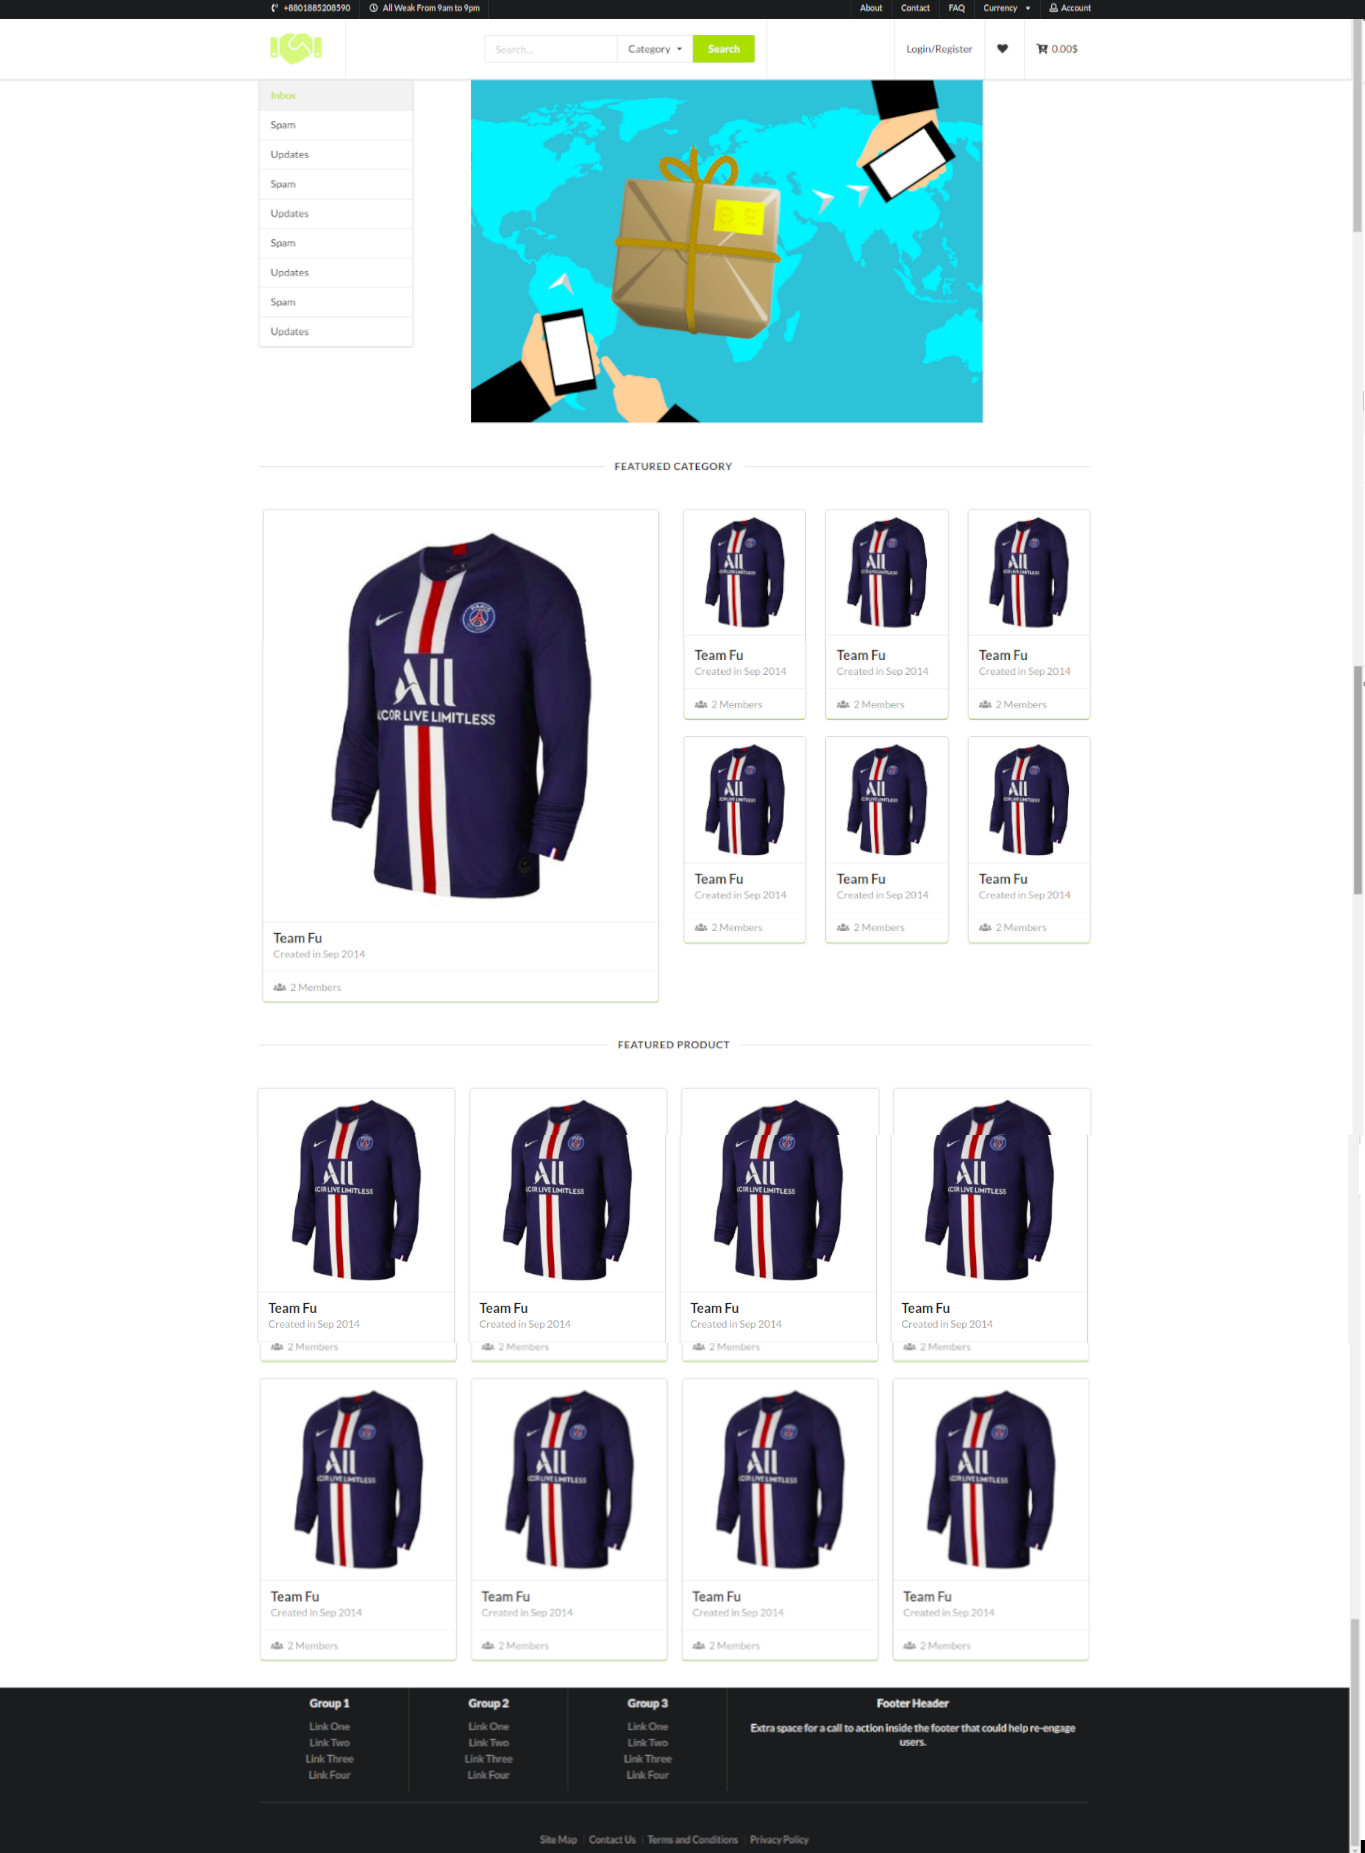
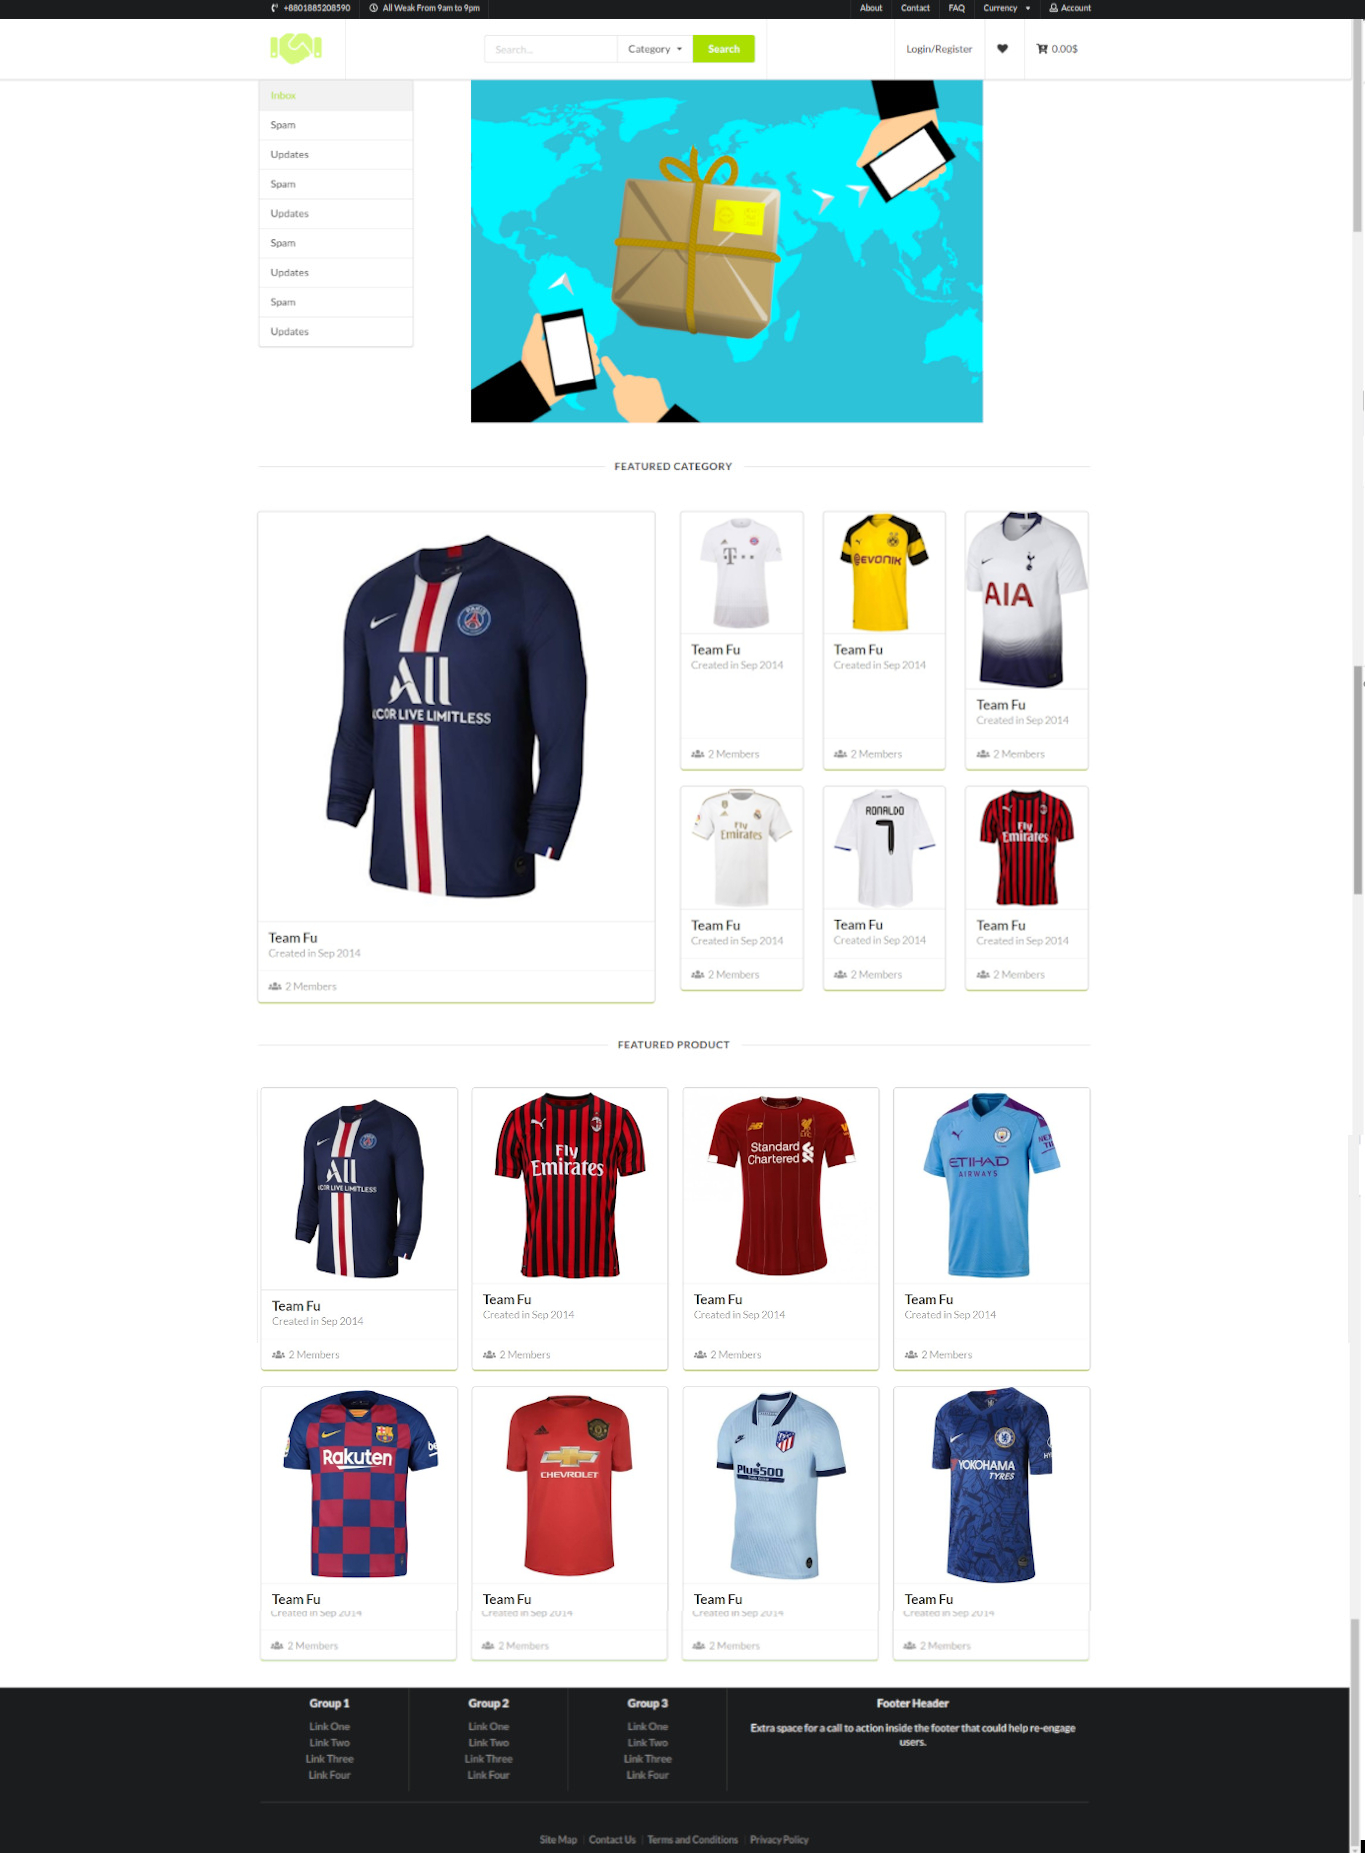
thumbnail change

diff --git a/index.html b/index.html
@@ -173,7 +173,7 @@
                                                     </div>
                                                 </div>
                                             </div>
-                                            <img class="ui fluid image" src="img/pasg.jpg">
+                                            <img class="ui fluid image" src="img/images (7).jpg">
                                         </div>
                                         <div class="content">
                                             <a class="header">Team Fu</a>
@@ -197,7 +197,7 @@
                                                     </div>
                                                 </div>
                                             </div>
-                                            <img class="ui fluid image" src="img/pasg.jpg">
+                                            <img class="ui fluid image" src="img/images (8).jpg">
                                         </div>
                                         <div class="content">
                                             <a class="header">Team Fu</a>
@@ -221,7 +221,7 @@
                                                     </div>
                                                 </div>
                                             </div>
-                                            <img class="ui fluid image" src="img/pasg.jpg">
+                                            <img class="ui fluid image" src="img/images (9).jpg">
                                         </div>
                                         <div class="content">
                                             <a class="header">Team Fu</a>
@@ -247,7 +247,7 @@
                                                         </div>
                                                     </div>
                                                 </div>
-                                                <img class="ui fluid image" src="img/pasg.jpg">
+                                                <img class="ui fluid image" src="img/images.jpg">
                                             </div>
                                             <div class="content">
                                                 <a class="header">Team Fu</a>
@@ -271,7 +271,7 @@
                                                         </div>
                                                     </div>
                                                 </div>
-                                                <img class="ui fluid image" src="img/pasg.jpg">
+                                                <img class="ui fluid image" src="img/realmadrid.jpg">
                                             </div>
                                             <div class="content">
                                                 <a class="header">Team Fu</a>
@@ -295,7 +295,7 @@
                                                         </div>
                                                     </div>
                                                 </div>
-                                                <img class="ui fluid image" src="img/pasg.jpg">
+                                                <img class="ui fluid image" src="img/AC-Milan-Home-Jersey-2019-20-1.jpg">
                                             </div>
                                             <div class="content">
                                                 <a class="header">Team Fu</a>
@@ -357,7 +357,7 @@
                                 </div>
                             </div>
                         </div>
-                        <img class="ui fluid image" src="img/pasg.jpg">
+                        <img class="ui fluid image" src="img/AC-Milan-Home-Jersey-2019-20-1.jpg">
                     </div>
                     <div class="content">
                         <a class="header">Team Fu</a>
@@ -381,7 +381,7 @@
                                 </div>
                             </div>
                         </div>
-                        <img class="ui fluid image" src="img/pasg.jpg">
+                        <img class="ui fluid image" src="img/images (1).jpg">
                     </div>
                     <div class="content">
                         <a class="header">Team Fu</a>
@@ -405,7 +405,7 @@
                                 </div>
                             </div>
                         </div>
-                        <img class="ui fluid image" src="img/pasg.jpg">
+                        <img class="ui fluid image" src="img/images (2).jpg">
                     </div>
                     <div class="content">
                         <a class="header">Team Fu</a>
@@ -431,7 +431,7 @@
                                         </div>
                                     </div>
                                 </div>
-                                <img class="ui fluid image" src="img/pasg.jpg">
+                                <img class="ui fluid image" src="img/images (3).jpg">
                             </div>
                             <div class="content">
                                 <a class="header">Team Fu</a>
@@ -455,7 +455,7 @@
                                     </div>
                                 </div>
                             </div>
-                            <img class="ui fluid image" src="img/pasg.jpg">
+                            <img class="ui fluid image" src="img/images (4).jpg">
                         </div>
                         <div class="content">
                             <a class="header">Team Fu</a>
@@ -479,7 +479,7 @@
                                     </div>
                                 </div>
                             </div>
-                            <img class="ui fluid image" src="img/pasg.jpg">
+                            <img class="ui fluid image" src="img/images (5).jpg">
                         </div>
                         <div class="content">
                             <a class="header">Team Fu</a>
@@ -503,7 +503,7 @@
                                     </div>
                                 </div>
                             </div>
-                            <img class="ui fluid image" src="img/pasg.jpg">
+                            <img class="ui fluid image" src="img/images (6).jpg">
                         </div>
                         <div class="content">
                             <a class="header">Team Fu</a>
